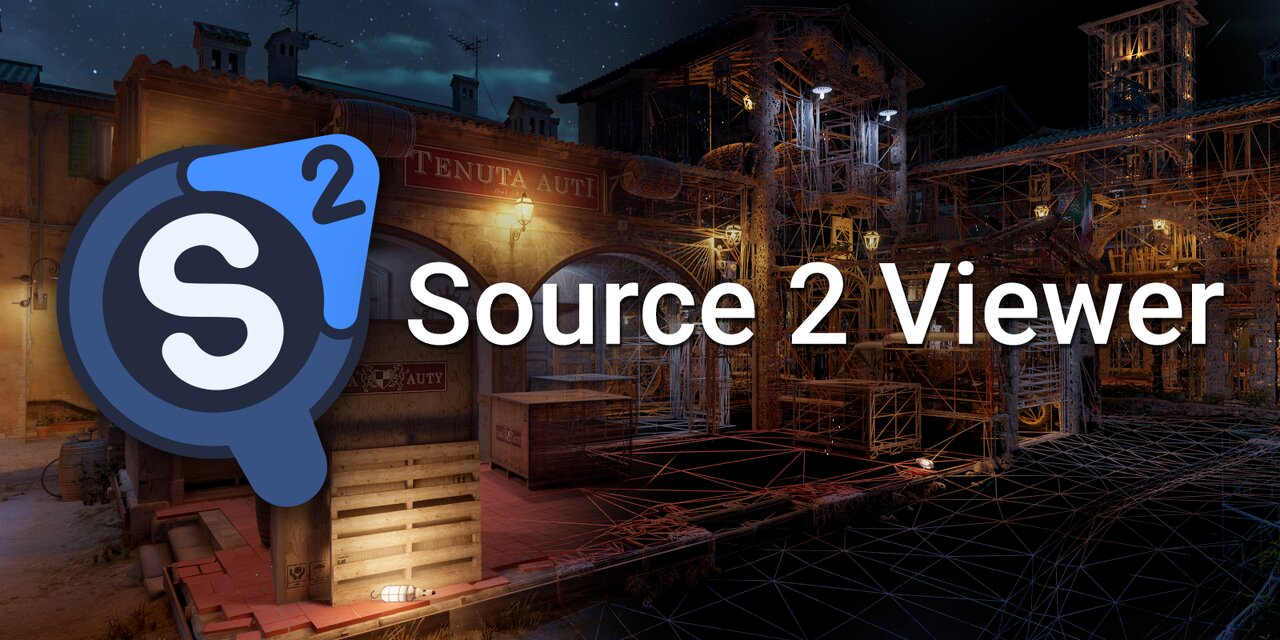
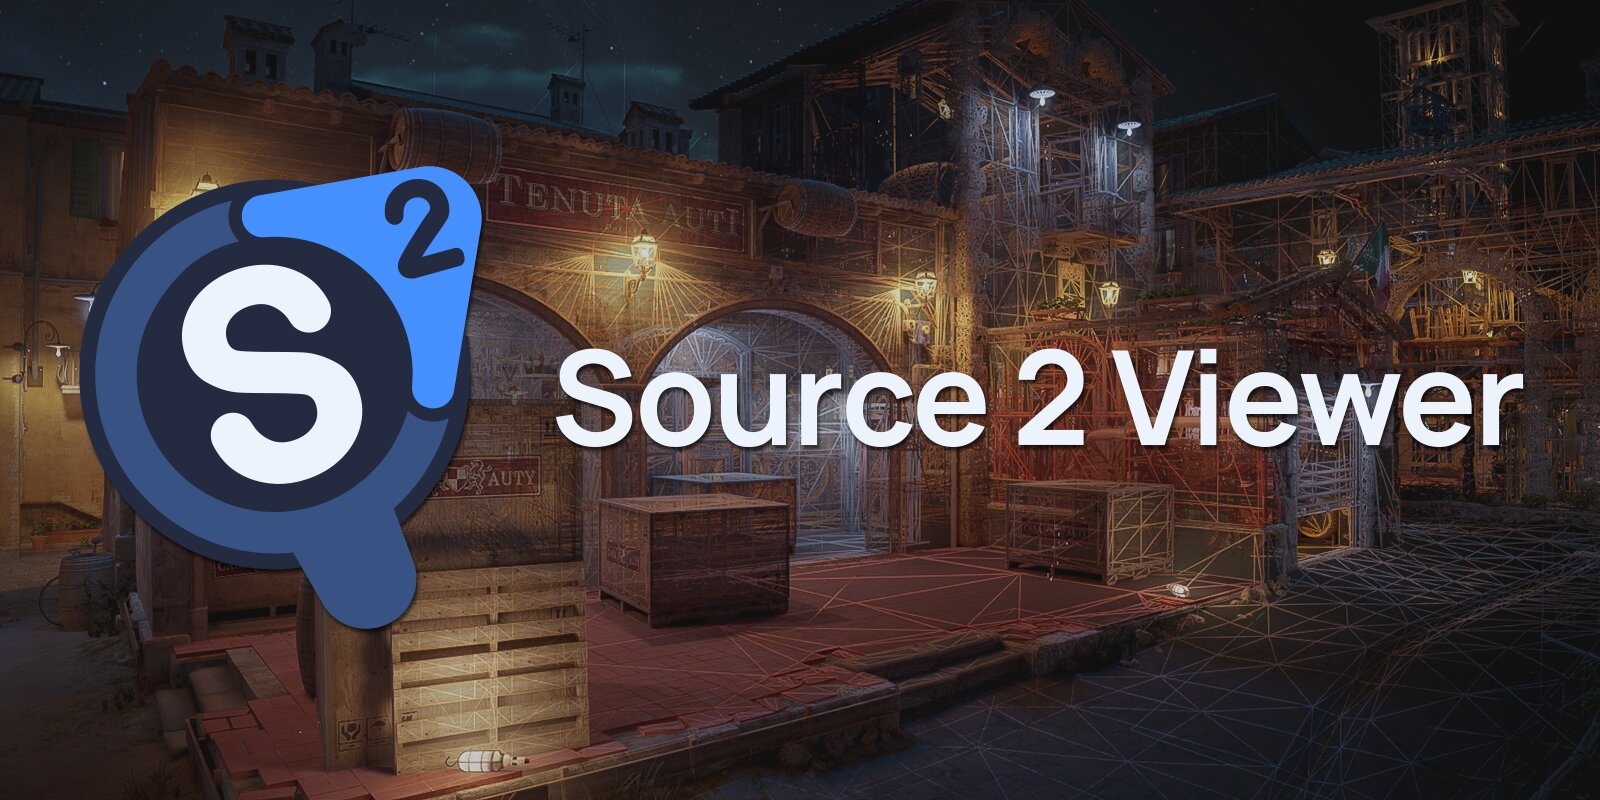
Update preview image

diff --git a/src/ru.html b/src/ru.html
@@ -27,8 +27,8 @@
 		<meta property="og:url" content="https://s2v.app/ru.html">
 		<meta property="og:image" content="https://s2v.app/static/preview.jpg">
 		<meta property="og:image:type" content="image/jpeg">
-		<meta property="og:image:width" content="1280">
-		<meta property="og:image:height" content="640">
+		<meta property="og:image:width" content="1600">
+		<meta property="og:image:height" content="800">
 		<meta property="og:image:alt" content="Логотип Source 2 Viewer на фоне карты Counter-Strike 2, переходящей в каркасный рендер">
 		<meta property="og:logo" content="https://s2v.app/static/logo.png">
 		<meta property="og:title" content="Source 2 — просмотрщик и декомпилятор">

diff --git a/src/index.html b/src/index.html
@@ -27,8 +27,8 @@
 		<meta property="og:url" content="https://s2v.app/">
 		<meta property="og:image" content="https://s2v.app/static/preview.jpg">
 		<meta property="og:image:type" content="image/jpeg">
-		<meta property="og:image:width" content="1280">
-		<meta property="og:image:height" content="640">
+		<meta property="og:image:width" content="1600">
+		<meta property="og:image:height" content="800">
 		<meta property="og:image:alt" content="Source 2 Viewer logo over a Counter-Strike 2 map fading into a wireframe render">
 		<meta property="og:logo" content="https://s2v.app/static/logo.png">
 		<meta property="og:title" content="Source 2 Viewer (S2V) — VPK Viewer &amp; Decompiler">

diff --git a/src/zh-hans.html b/src/zh-hans.html
@@ -21,8 +21,8 @@
 		<meta property="og:url" content="https://s2v.app/zh-hans.html">
 		<meta property="og:image" content="https://s2v.app/static/preview.jpg">
 		<meta property="og:image:type" content="image/jpeg">
-		<meta property="og:image:width" content="1280">
-		<meta property="og:image:height" content="640">
+		<meta property="og:image:width" content="1600">
+		<meta property="og:image:height" content="800">
 		<meta property="og:image:alt" content="Source 2 Viewer 标志，背景为渐变为线框渲染的 Counter-Strike 2 地图">
 		<meta property="og:logo" content="https://s2v.app/static/logo.png">
 		<meta property="og:title" content="Source 2 查看器与反编译器">
